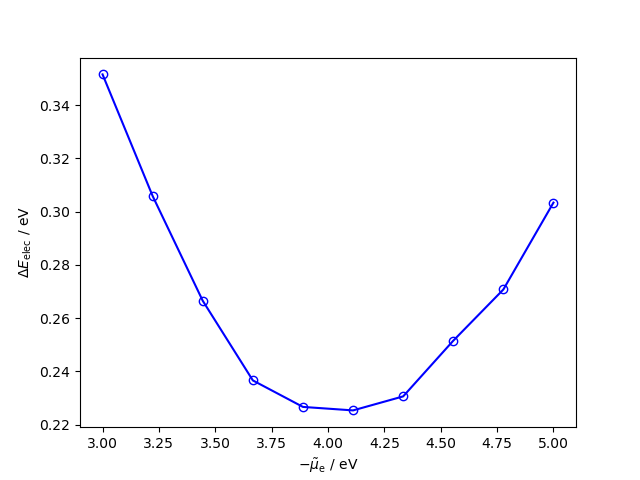
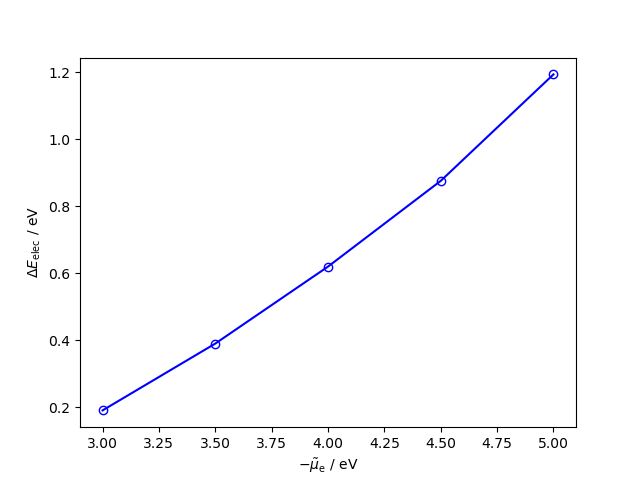
redo calculation with 4 layers
this fixes the geometry to be a bent co2 molecule, and it makes the energy-potential relationship linear

diff --git a/slab/calculation.py b/slab/calculation.py
@@ -40,7 +40,7 @@ calc = SJM(
 )
 atoms.calc = calc
 
-potential_range = np.linspace(3, 5, 10)
+potential_range = np.linspace(3, 5, 5)
 energies = np.zeros(potential_range.shape)
 
 for i, pot in enumerate(potential_range):

diff --git a/slab_co2/calculation.py b/slab_co2/calculation.py
@@ -38,7 +38,7 @@ calc = SJM(
 )
 atoms.calc = calc
 
-potential_range = np.linspace(3, 5, 10)
+potential_range = np.linspace(3, 5, 5)
 energies = np.zeros(potential_range.shape)
 
 for i, pot in enumerate(potential_range):
